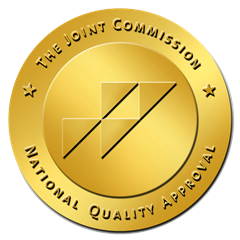
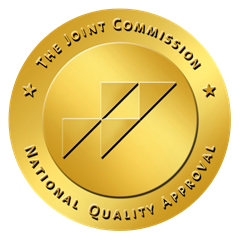
Remove seal badge shadow entirely
Drop the CSS drop-shadow and crop the offset shadow disc baked into the
seal PNG (antialiased circular crop, radius 556 @ 598.5,598.5).

diff --git a/css/style.css b/css/style.css
@@ -1385,7 +1385,6 @@ ul.menu a.is-active {
 	transform: translateY(6px) scale(.98);
 	pointer-events: none;
 	transition: opacity .5s ease-out, transform .5s ease-out;
-	filter: drop-shadow(0 1px 3px rgba(0,0,0,.08));
 }
 .yr-badge img{
 	width: 100%;
@@ -1401,8 +1400,7 @@ ul.menu a.is-active {
 .yr-badge.show:hover,
 .yr-badge.show:focus-visible{
 	transform: translateY(-1px) scale(1.01);
-	filter: drop-shadow(0 2px 5px rgba(0,0,0,.1));
-	transition: transform .3s ease-out, filter .3s ease-out;
+	transition: transform .3s ease-out;
 }
 .yr-badge:focus-visible{
 	outline: 3px solid #fff;
